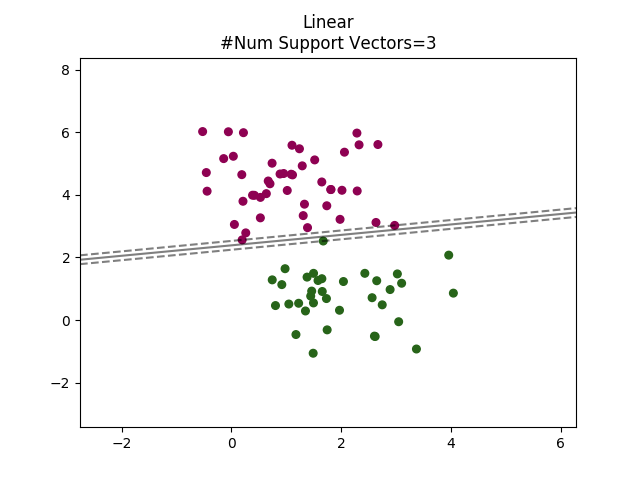
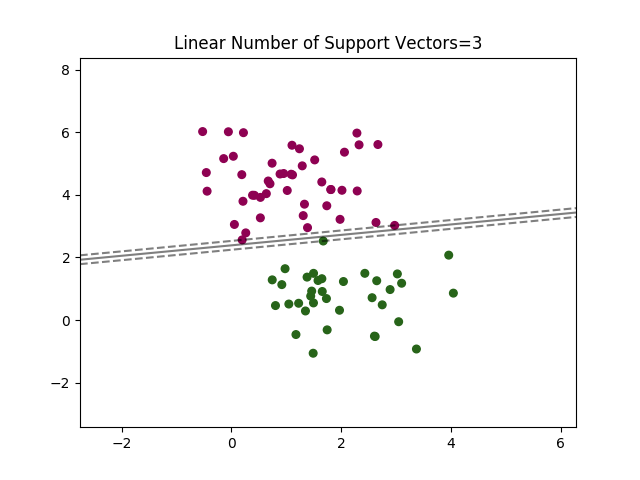
new pics

Changed region(s): [[0.2812, 0.0312, 0.75, 0.125]]

diff --git a/hw04/skeleton_svm.py b/hw04/skeleton_svm.py
@@ -53,24 +53,24 @@ def train_three_kernels(X_train, y_train, X_val, y_val):
     linear_clf = svm.SVC(kernel='linear', C=1000)
     linear_clf.fit(X_train, y_train)
     lin_support = linear_clf.n_support_
-    # create_plot(X_train, y_train, linear_clf)
-    # plt.title(f"Linear\n#Num Support Vectors={lin_support[0] + lin_support[1]}")
-    # plt.savefig("section-a-linear.png")
-    # plt.show()
+    create_plot(X_train, y_train, linear_clf)
+    plt.title(f"Linear Number of Support Vectors={sum(lin_support)}")
+    plt.savefig("section-a-linear.png")
+    plt.show()
     quadratic_clf = svm.SVC(kernel='poly', degree=2, C=1000)
     quadratic_clf.fit(X_train, y_train)
     quad_support = quadratic_clf.n_support_
-    # create_plot(X_train, y_train, quadratic_clf)
-    # plt.title(f"Quadratic\n#Num Support Vectors={lin_support[0] + lin_support[1]}")
-    # plt.savefig("section-a-quadratic.png")
-    # plt.show()
+    create_plot(X_train, y_train, quadratic_clf)
+    plt.title(f"Quadratic Number of Support Vectors={sum(quad_support)}")
+    plt.savefig("section-a-quadratic.png")
+    plt.show()
     rbf_clf = svm.SVC(kernel='rbf', C=1000)
     rbf_clf.fit(X_train, y_train)
     rbf_support = rbf_clf.n_support_
-    # create_plot(X_train, y_train, rbf_clf)
-    # plt.title(f"RBF\n#Support vectors={lin_support[0] + lin_support[1]}")
-    # plt.savefig("section-a-rbf.png")
-    # plt.show()
+    create_plot(X_train, y_train, rbf_clf)
+    plt.title(f"RBF Number of Support Vectors={sum(rbf_support)}")
+    plt.savefig("section-a-rbf.png")
+    plt.show()
     return np.array([lin_support, quad_support, rbf_support])
 
 
